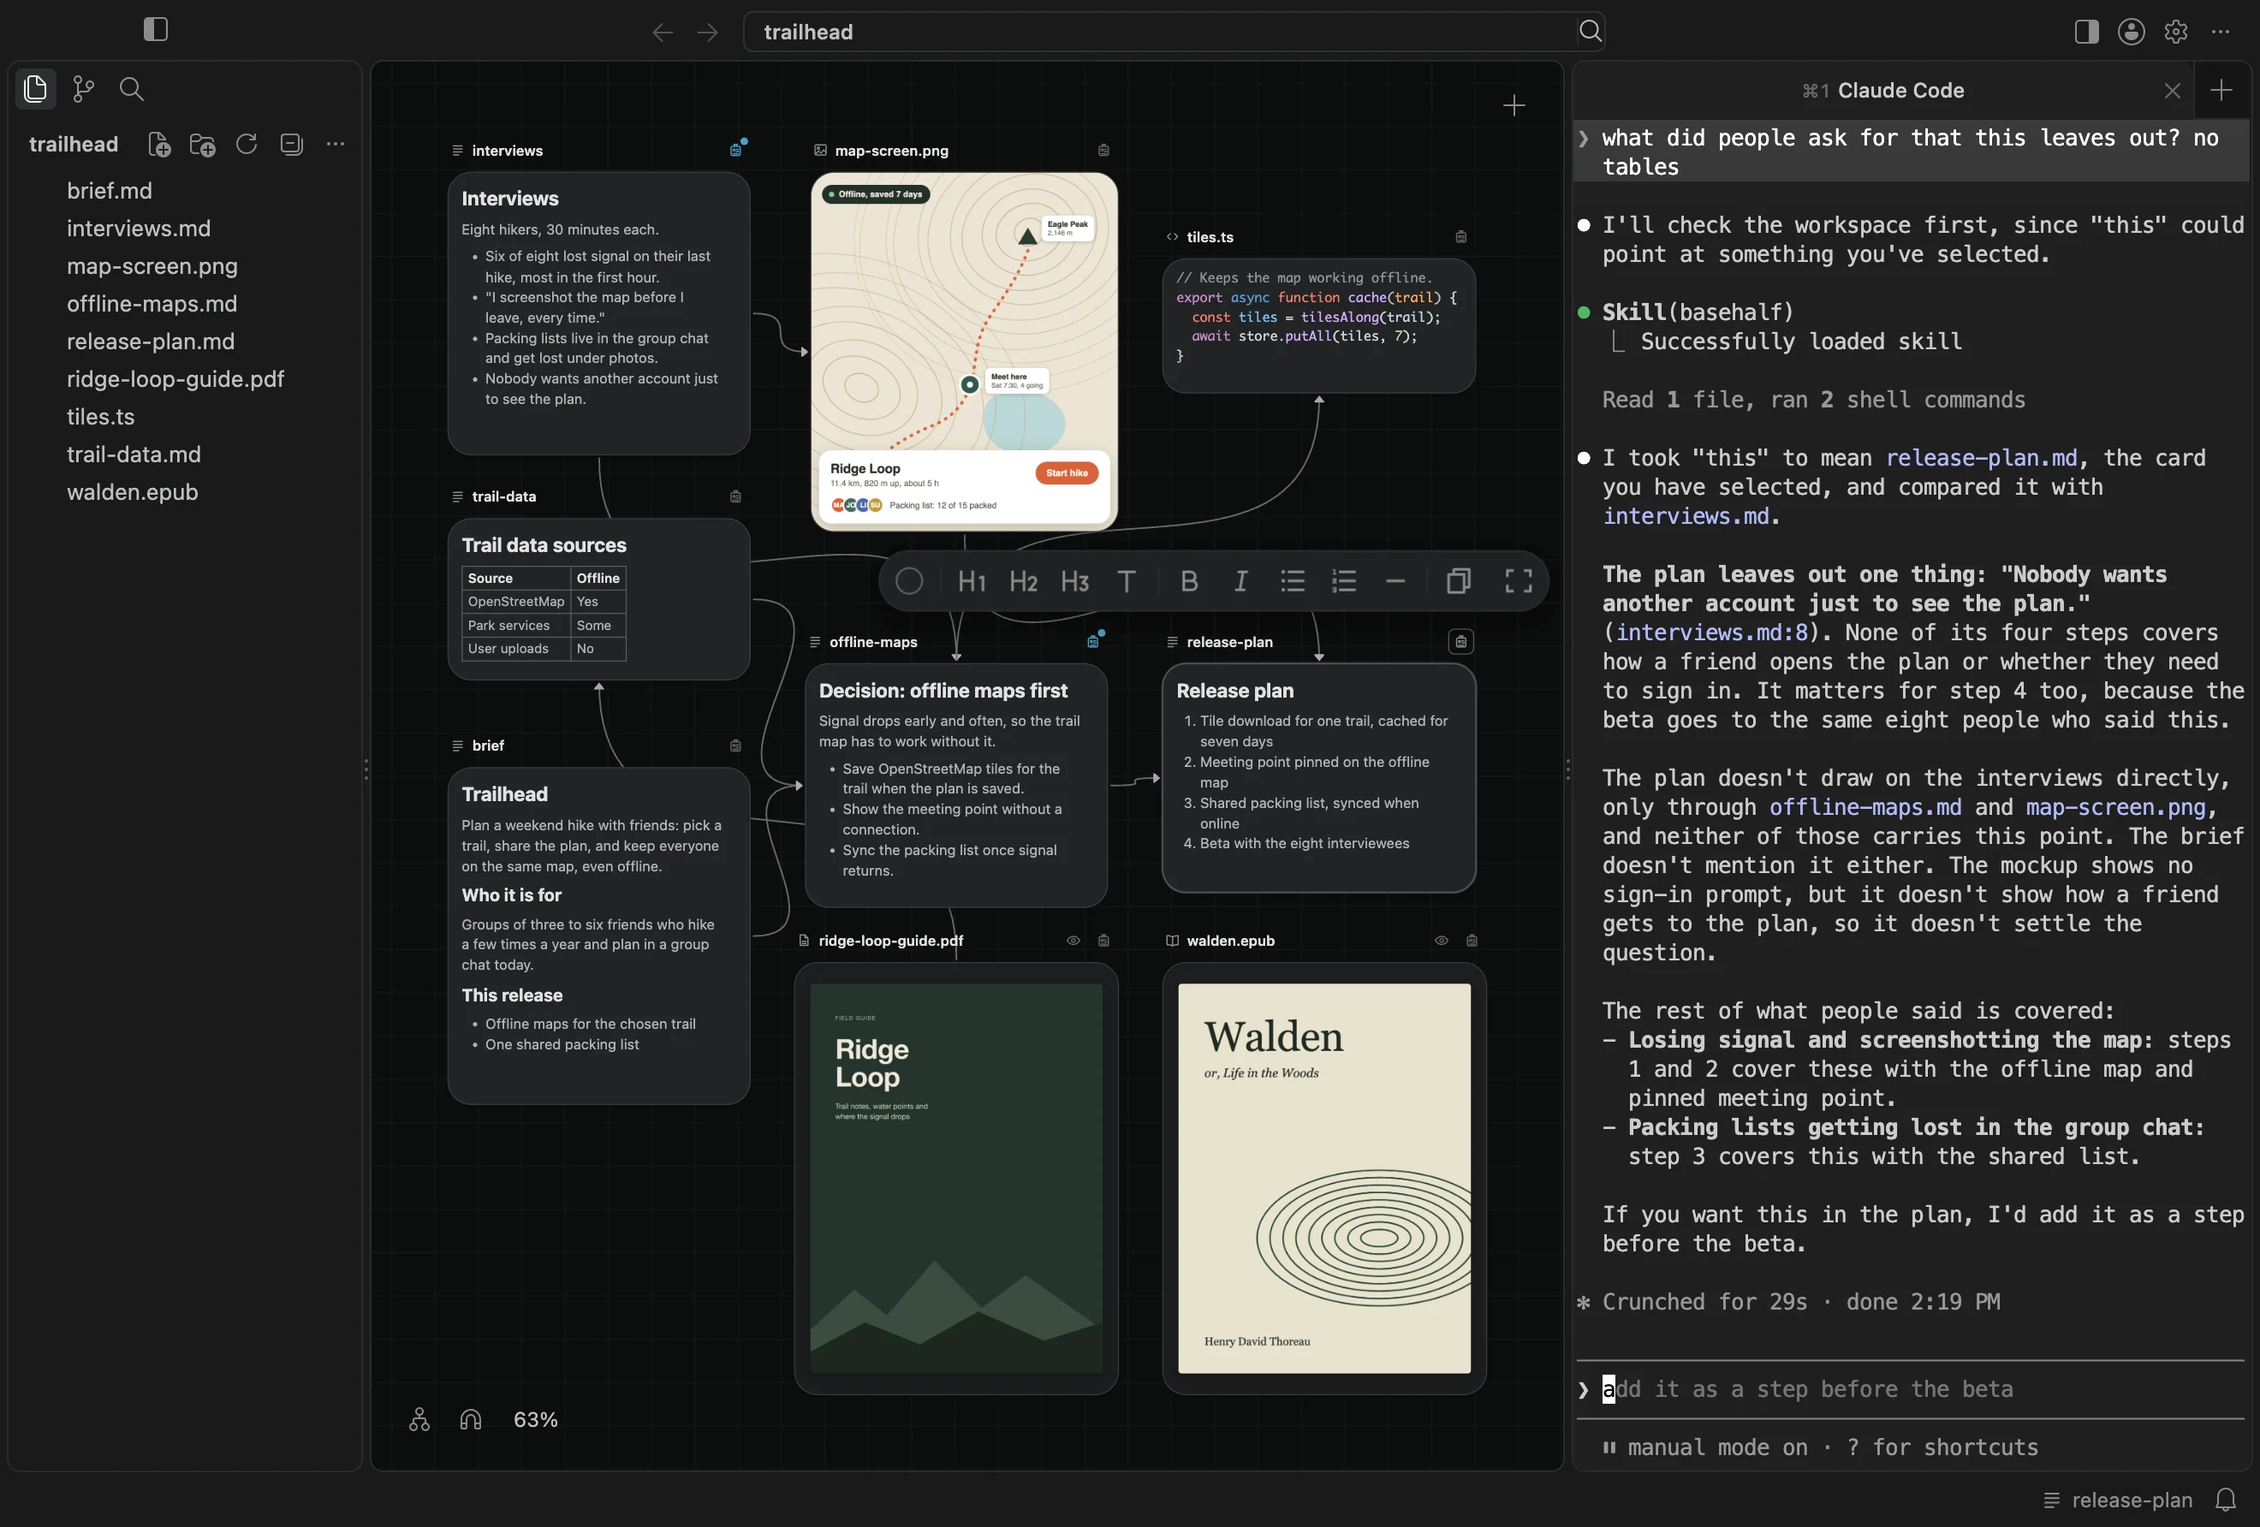
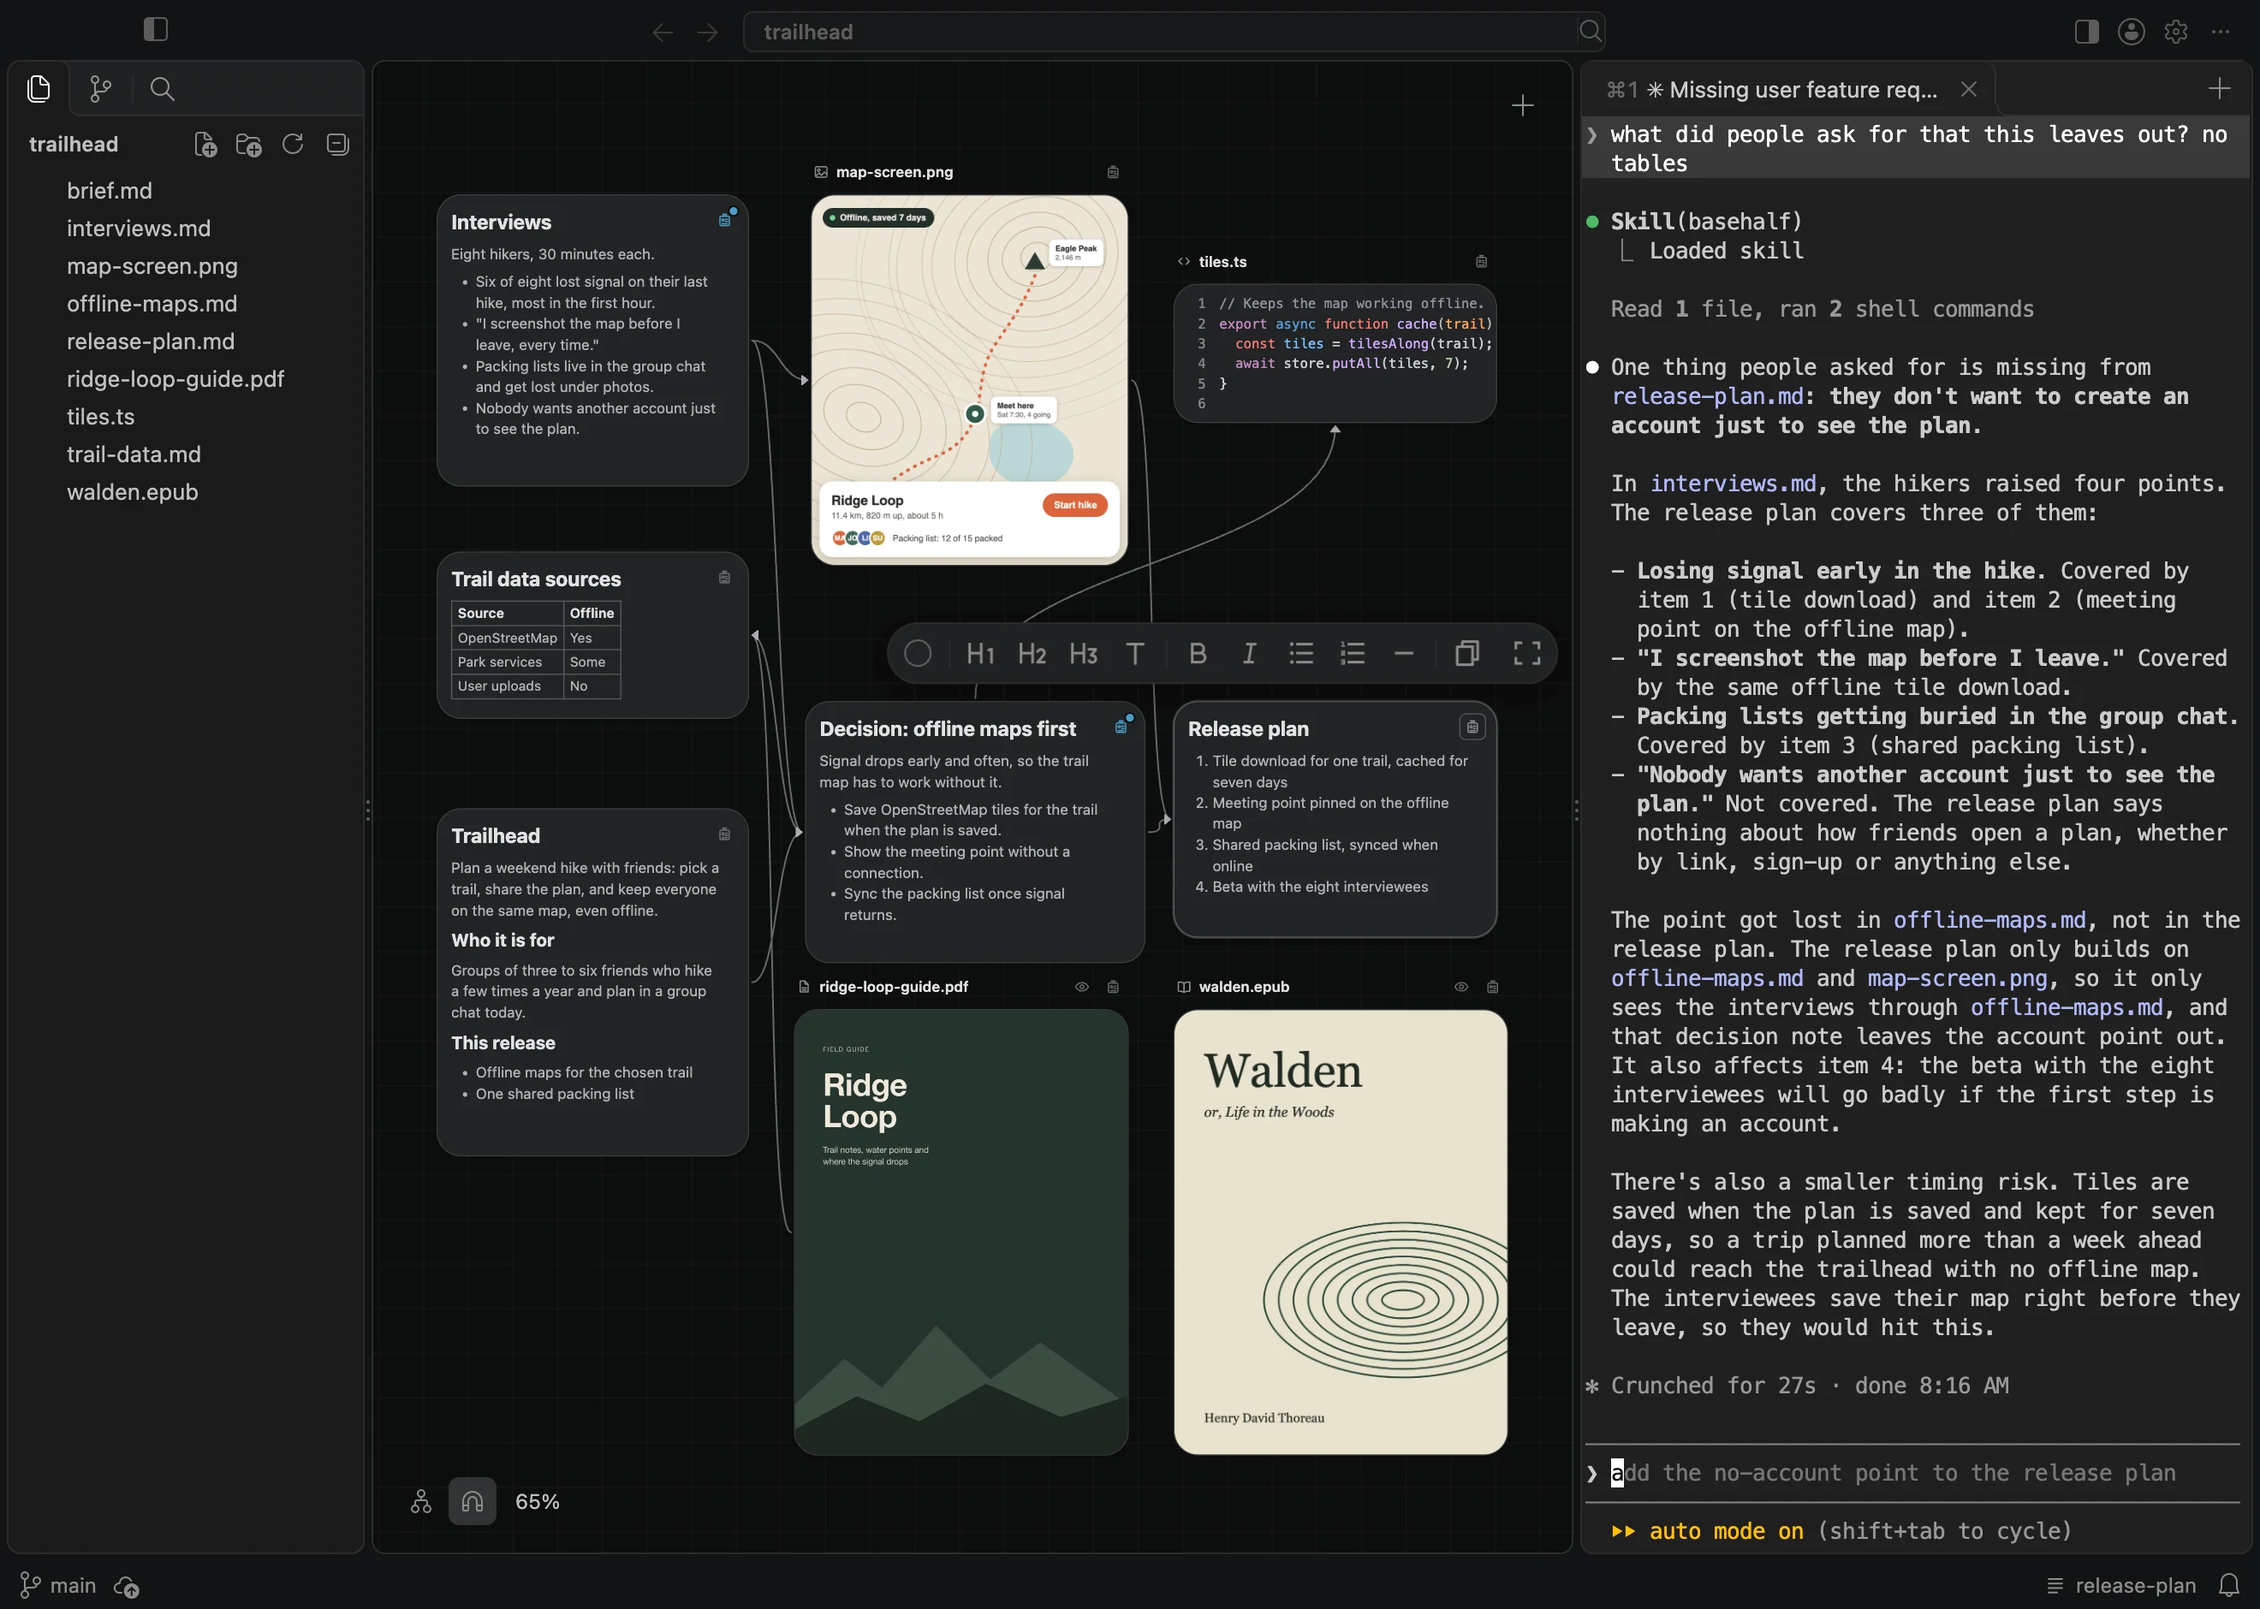
docs(readme): a picture of the window comes before the film
The film's still frame shows a black hole and nothing of the product, so
a visitor who does not press play saw no BaseHalf on the first screen.
The picture is the 0.7.2 window on the Trailhead demo folder, with Claude
Code answering beside the canvas.

diff --git a/README.md b/README.md
@@ -20,6 +20,10 @@
   <a href="https://basehalf.com/zh">简体中文</a>
 </p>
 
+<p align="center">
+  <img src="docs/assets/readme/hero.webp" width="820" alt="A BaseHalf window on a folder named trailhead. Its files are cards on a canvas: notes, a table, a picture of a map, code, a PDF, and a book, with lines between them. The release plan card is selected. Beside the canvas, Claude Code answers “what did people ask for that this leaves out?” and names the notes its answer comes from.">
+</p>
+
 https://github.com/user-attachments/assets/7dffd9c3-ce69-46c7-8620-e0d23fa46eed
 
 BaseHalf is a desktop app for thinking with AI on a canvas. Open a folder you
